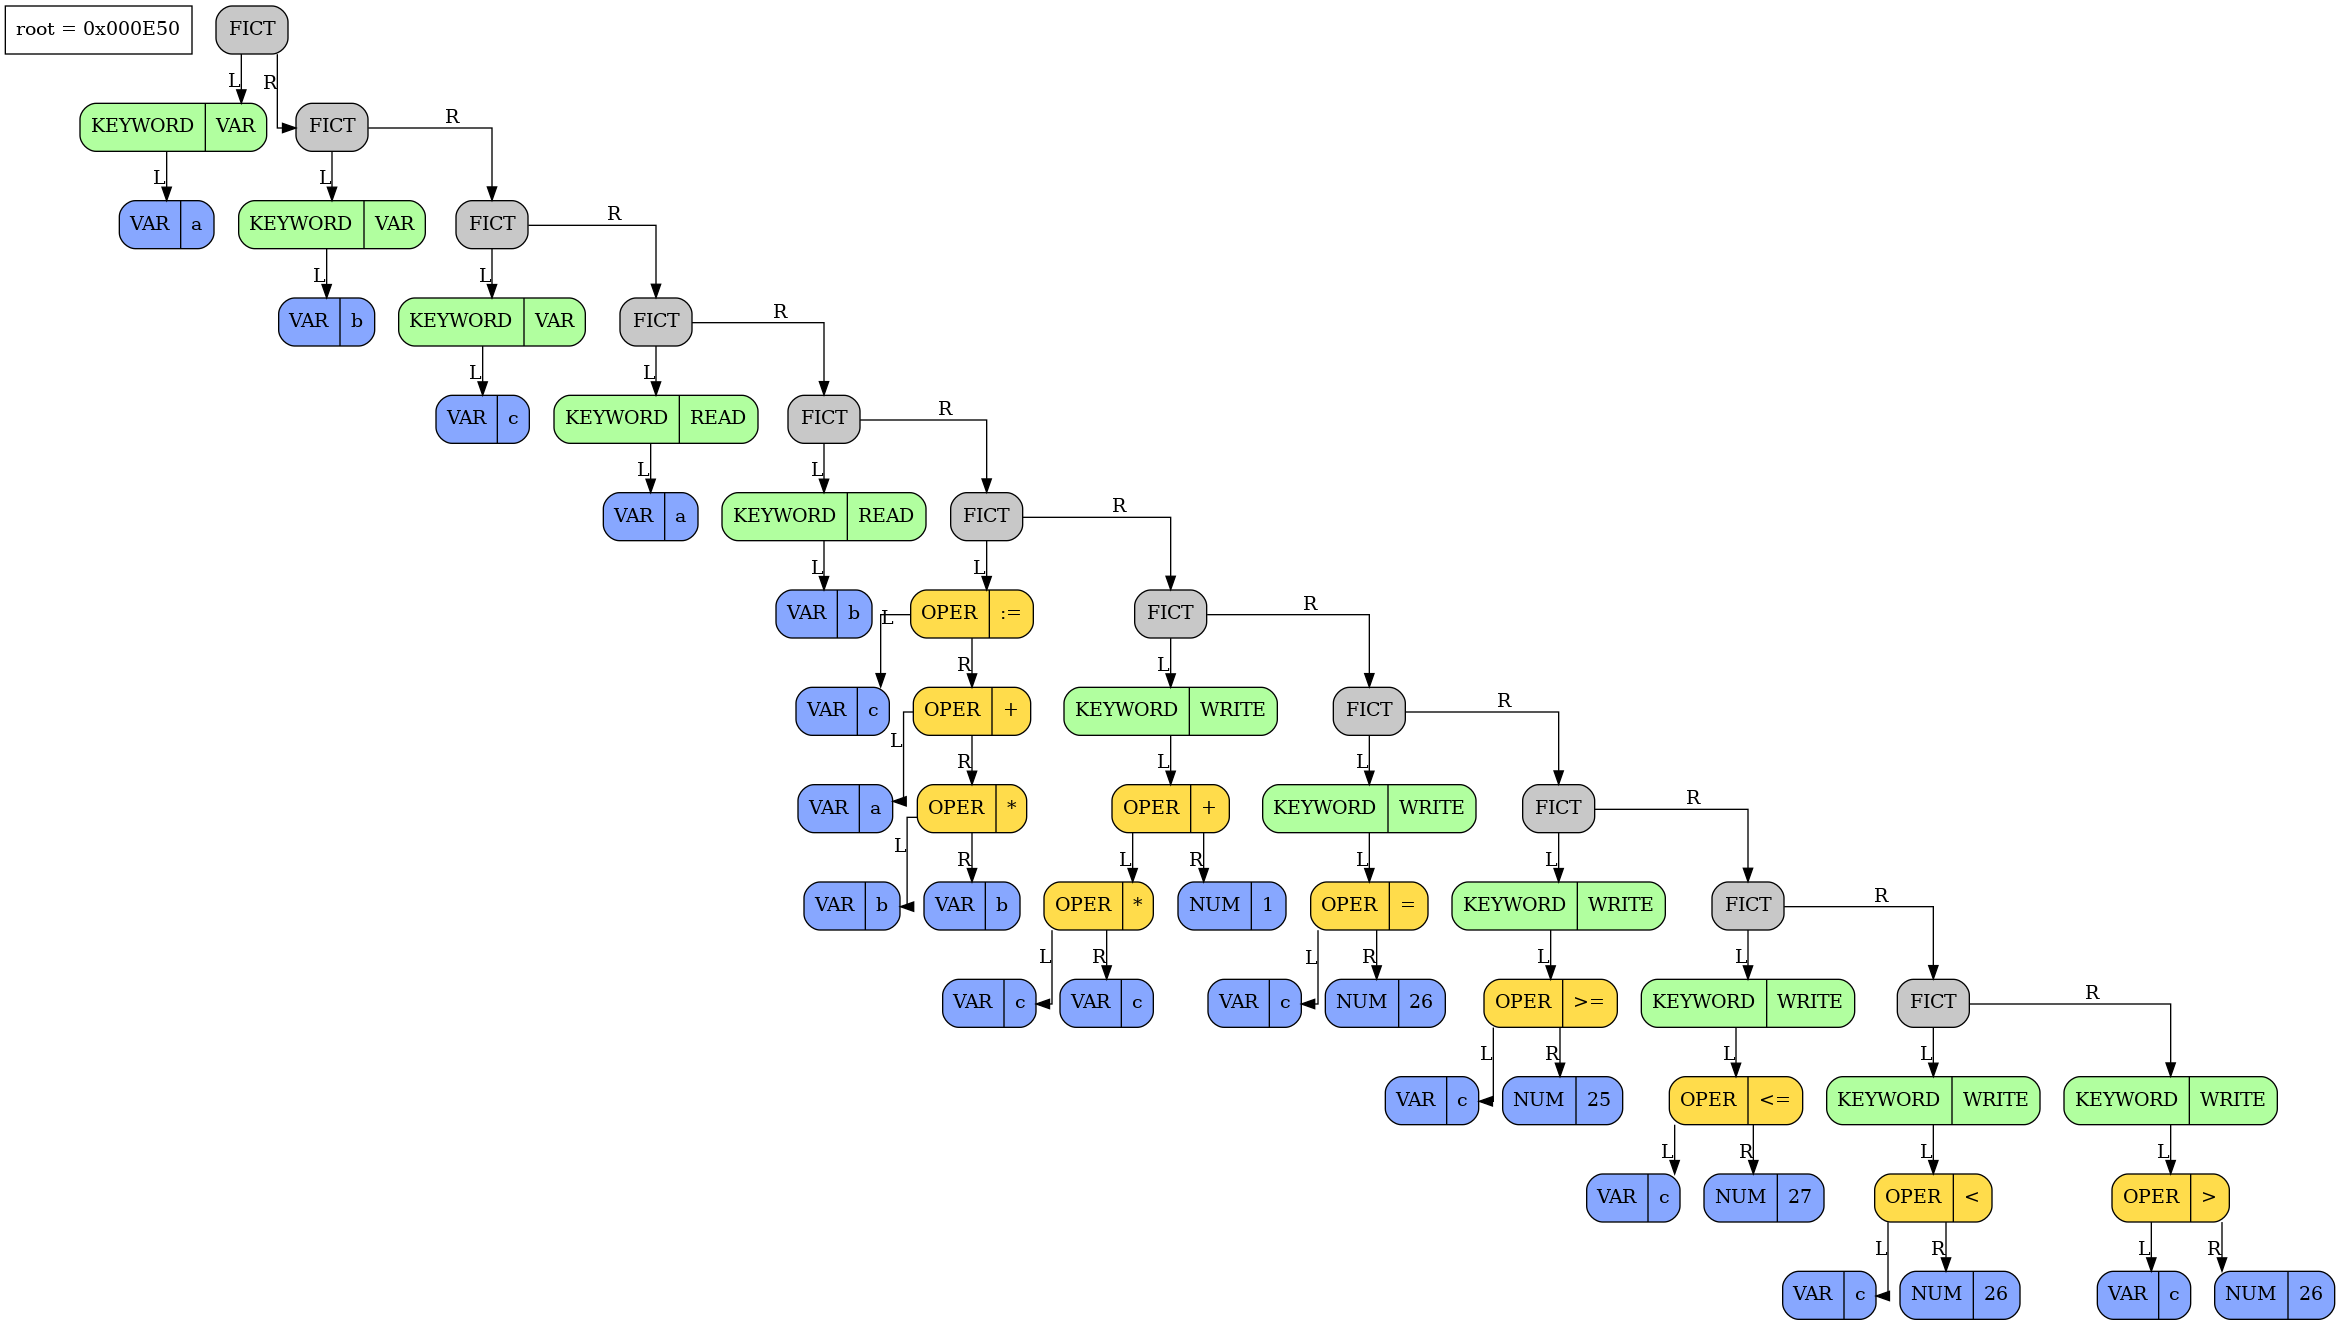
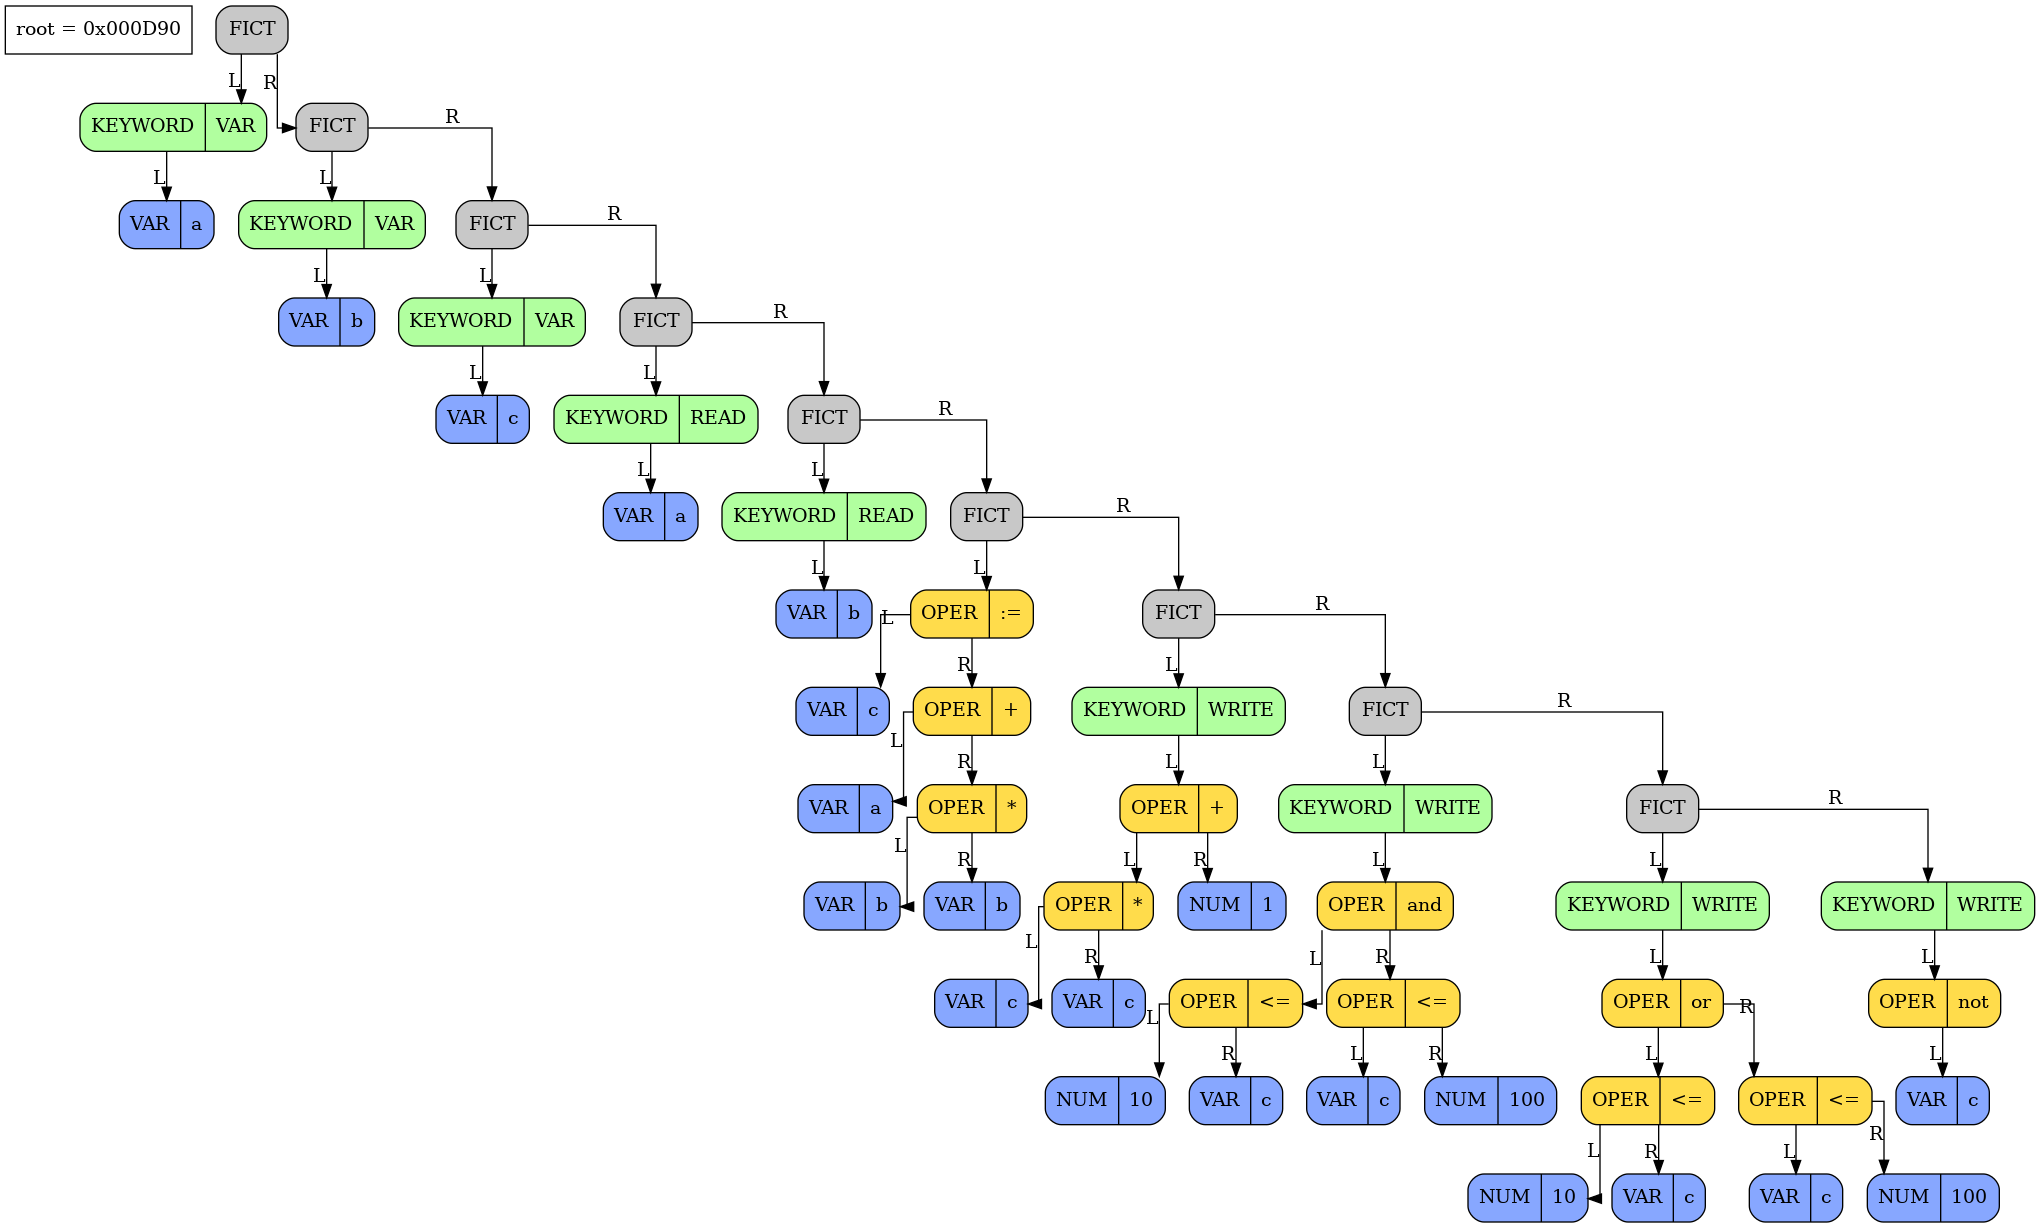
Add and, or, not

Changed region(s): [[0.0, 0.0, 1.0, 1.0]]

diff --git a/src/AST.cpp b/src/AST.cpp
@@ -71,11 +71,22 @@ int AST::ExecuteOperator(const Node* node) {
         BINARY_OPER_EXEC(MUL, *);
         BINARY_OPER_EXEC(DIV, /);
 
-        BINARY_OPER_EXEC(IS_EQ, ==);
-        BINARY_OPER_EXEC(IS_GE, >=);
-        BINARY_OPER_EXEC(IS_LE, <=);
-        BINARY_OPER_EXEC(IS_G,  >);
-        BINARY_OPER_EXEC(IS_L,  <);
+        BINARY_OPER_EXEC(IS_EQ,     ==);
+        BINARY_OPER_EXEC(IS_NOT_EQ, !=);
+        BINARY_OPER_EXEC(IS_GE,     >=);
+        BINARY_OPER_EXEC(IS_LE,     <=);
+        BINARY_OPER_EXEC(IS_G,      >);
+        BINARY_OPER_EXEC(IS_L,      <);
+        BINARY_OPER_EXEC(AND,       &&);
+        BINARY_OPER_EXEC(OR,        ||);
+
+        case Operator::NOT: {
+            std::cerr << "INTERPRETER: NOT \n";
+            int res = !ExecuteNode(node->left_);
+            std::cerr << "INTERPRETER: NOT res = " << res << "\n";
+
+            return res;
+        }
 
         case Operator::EQUATE: {
             std::cerr << "INTERPRETER: =\n";
@@ -232,6 +243,15 @@ void fprintOper(const Node* node, FILE* fp) {
             break;
         case Operator::IS_NOT_EQ:
             fprintf(fp, "\\<\\>");
+            break;
+        case Operator::AND:
+            fprintf(fp, "and");
+            break;
+        case Operator::OR:
+            fprintf(fp, "or");
+            break;
+        case Operator::NOT:
+            fprintf(fp, "not");
             break;
         default:
             fprintf(fp, "#");

diff --git a/src/Node.hpp b/src/Node.hpp
@@ -13,7 +13,10 @@ enum class Operator {
     IS_GE,
     IS_LE,
     IS_G,
-    IS_L
+    IS_L,
+    AND,
+    OR,
+    NOT
 };
 
 enum class Keyword {
